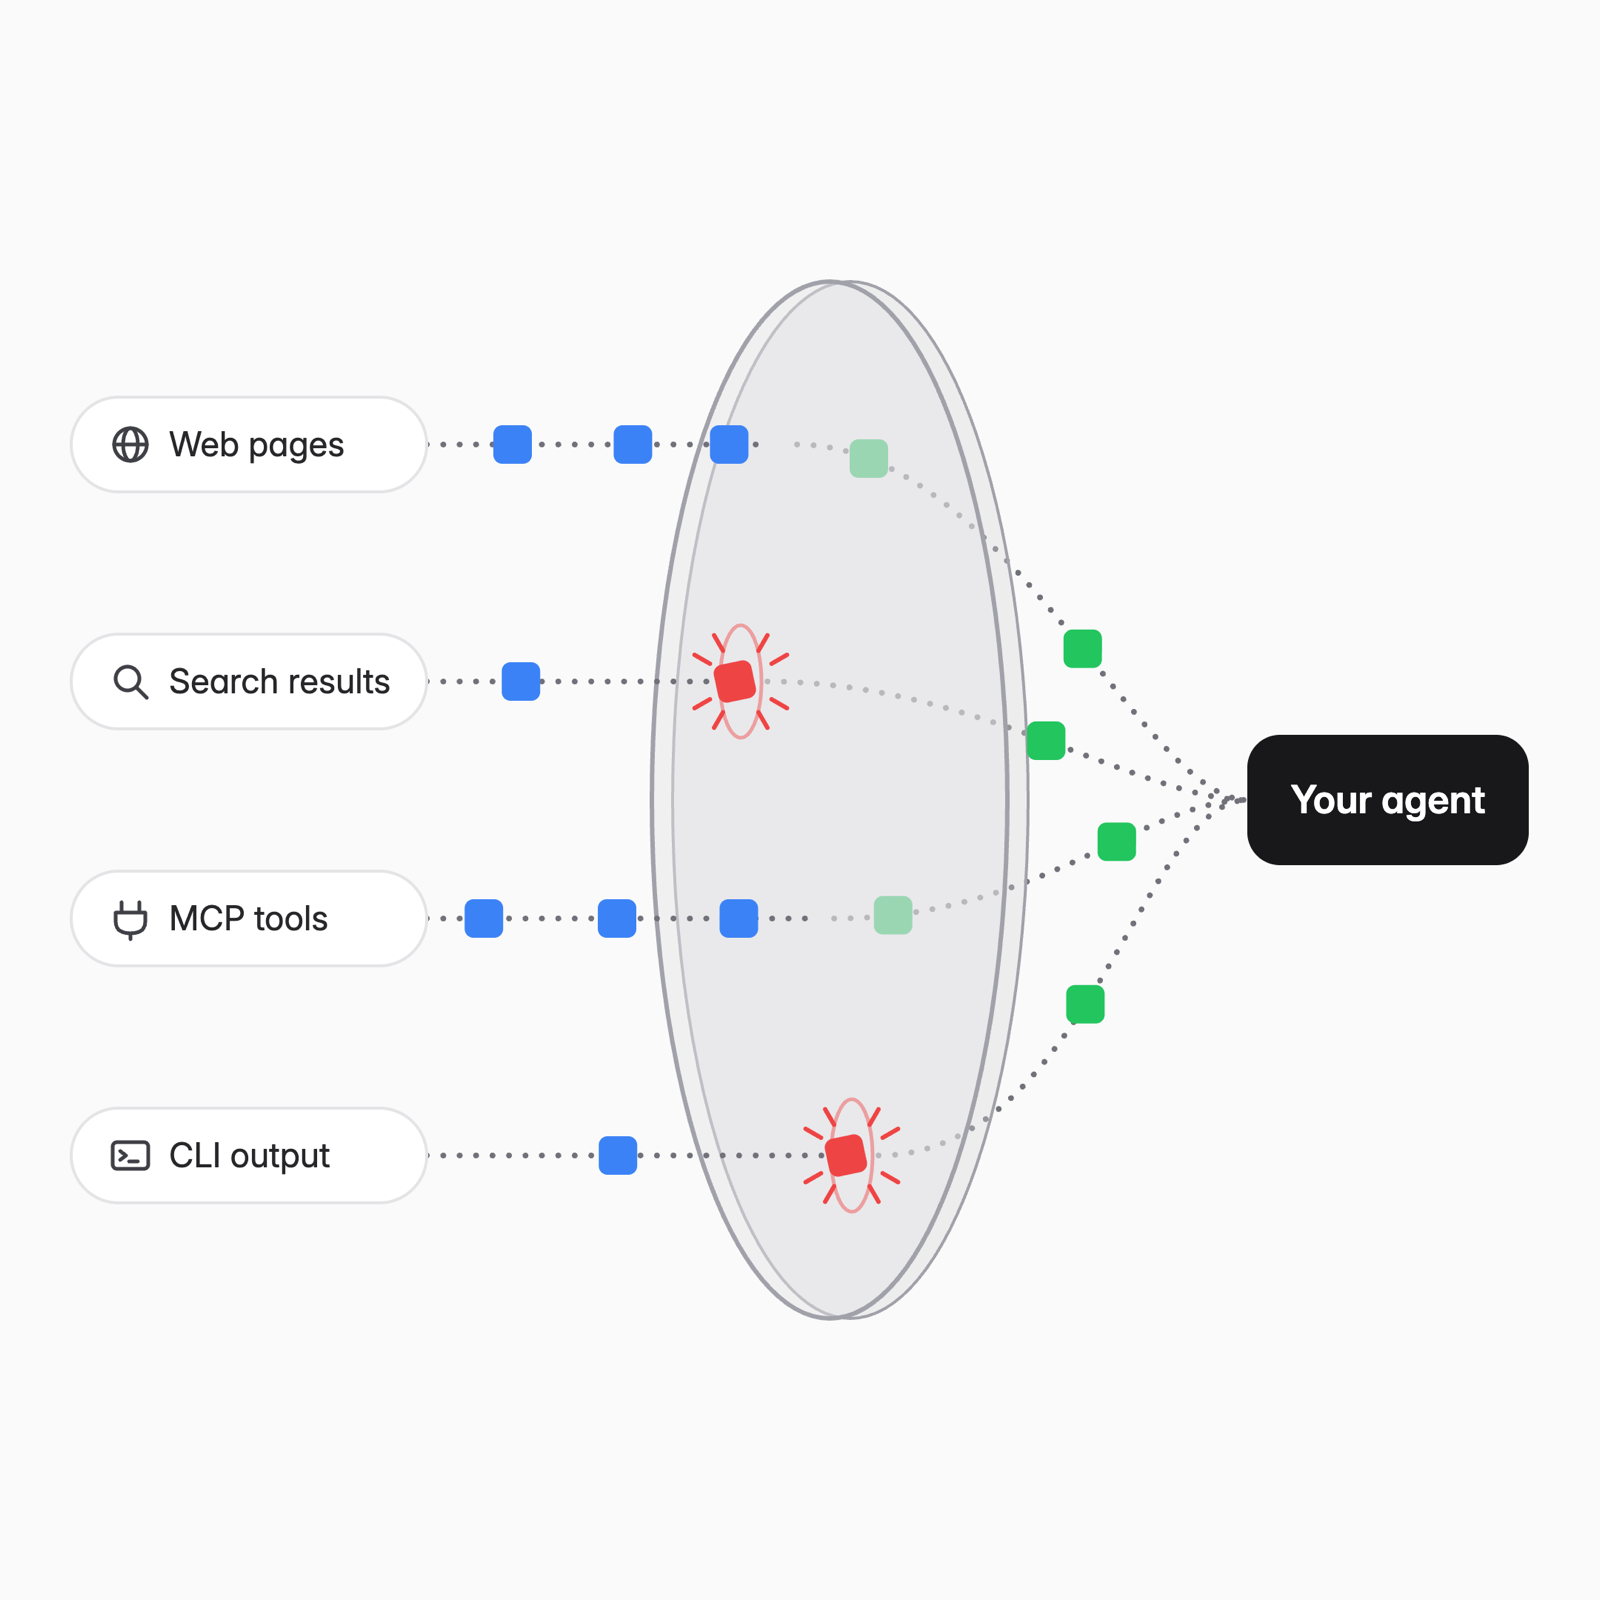
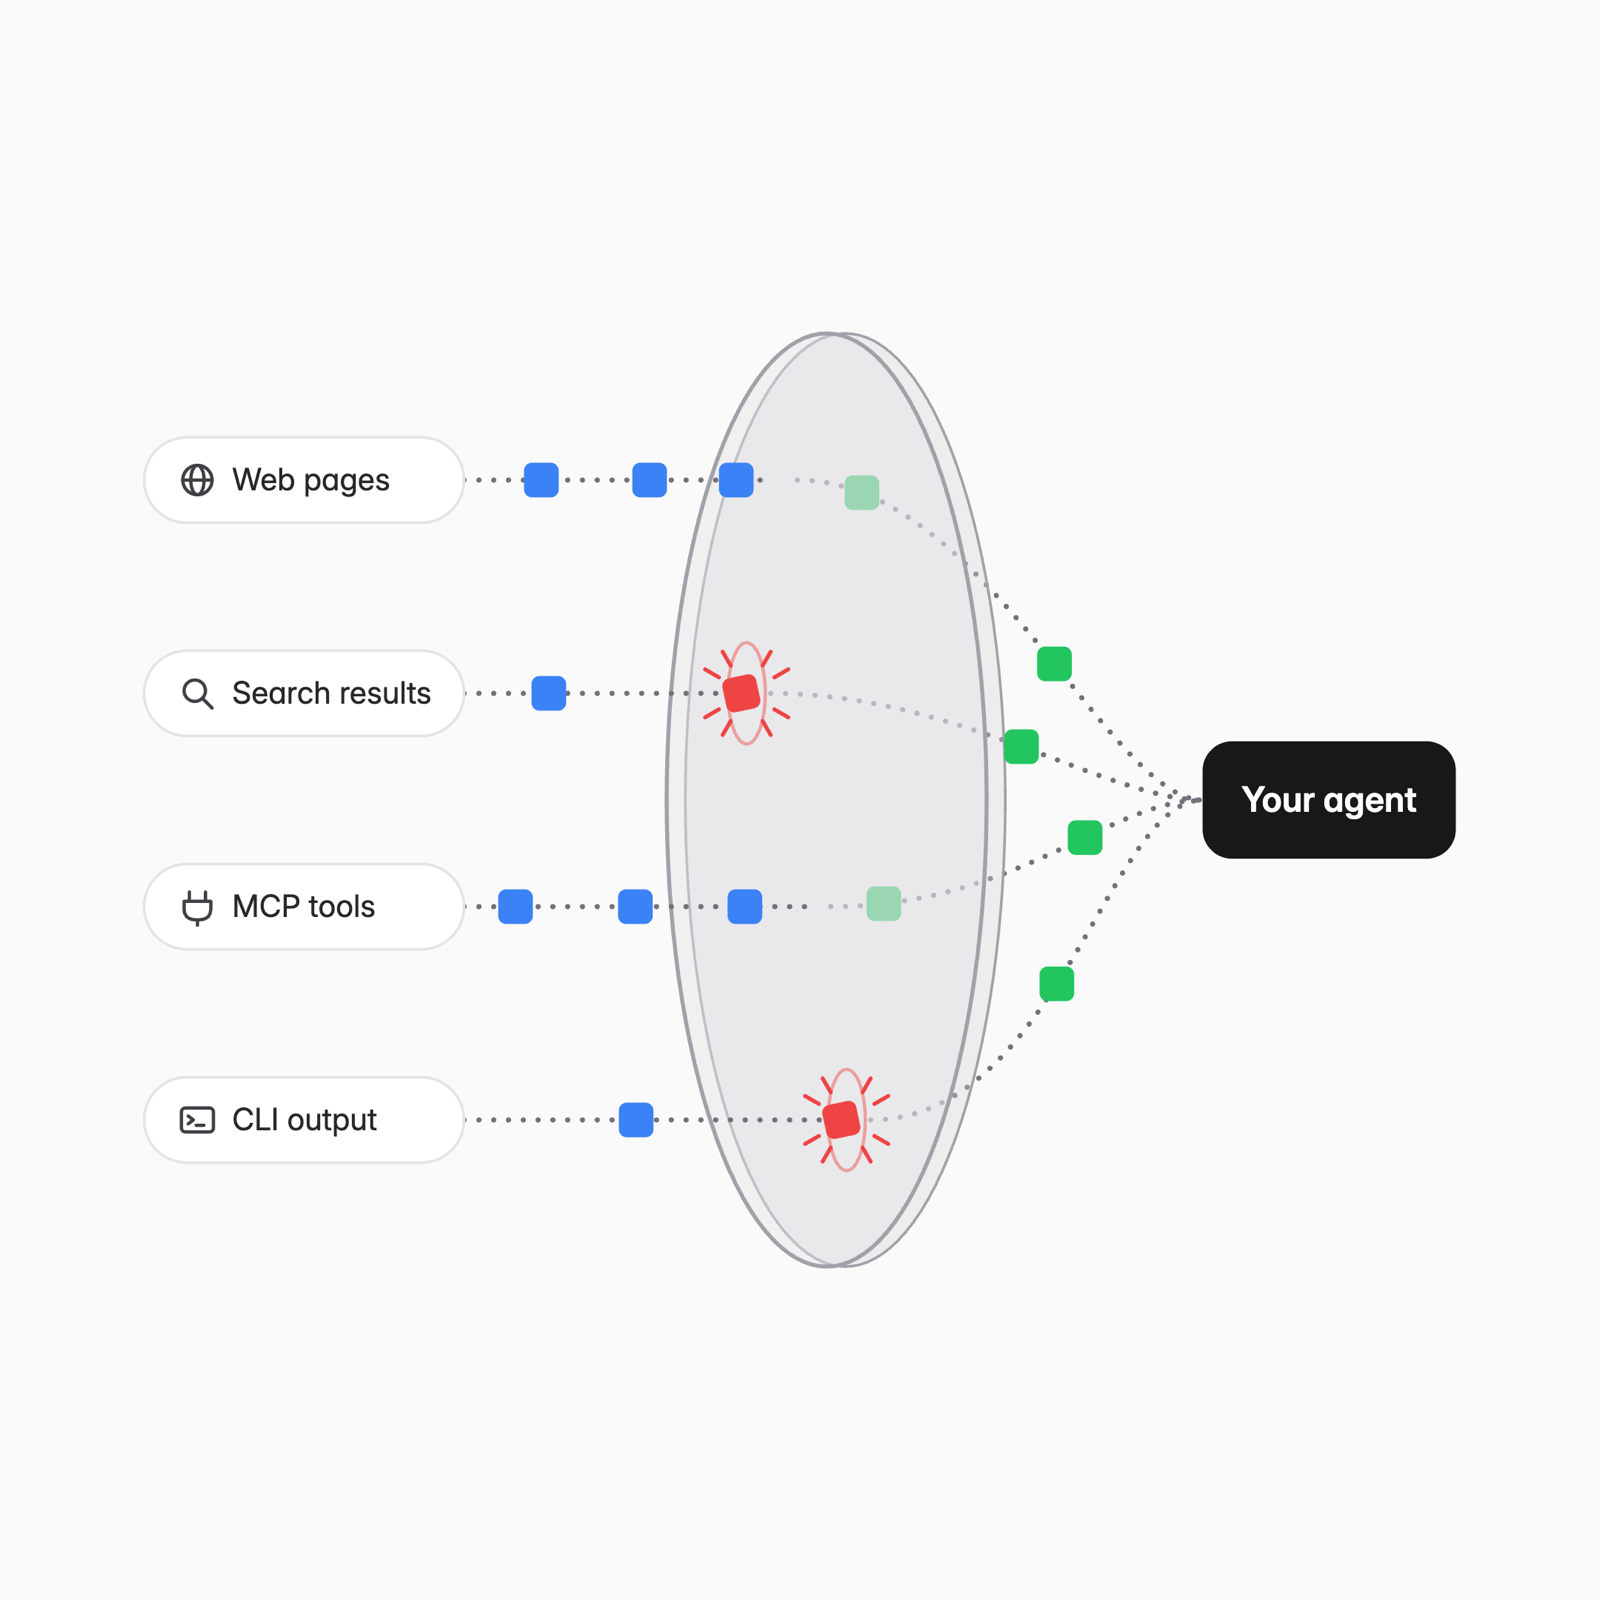
AI spam filter note: center the X card, drawing at 90% of its canvas

diff --git a/assets/css/main.css b/assets/css/main.css
@@ -76,7 +76,7 @@
 
   /* A post from X, rendered locally so it survives deletion and loads no X scripts. */
   .note-content .tweet {
-    @apply max-w-lg py-3 px-4 rounded-xl border border-zinc-200 bg-white text-zinc-900 dark:border-zinc-700 dark:bg-zinc-900 dark:text-zinc-100;
+    @apply max-w-lg mx-auto py-3 px-4 rounded-xl border border-zinc-200 bg-white text-zinc-900 dark:border-zinc-700 dark:bg-zinc-900 dark:text-zinc-100;
   }
 
   .note-content .tweet header {
